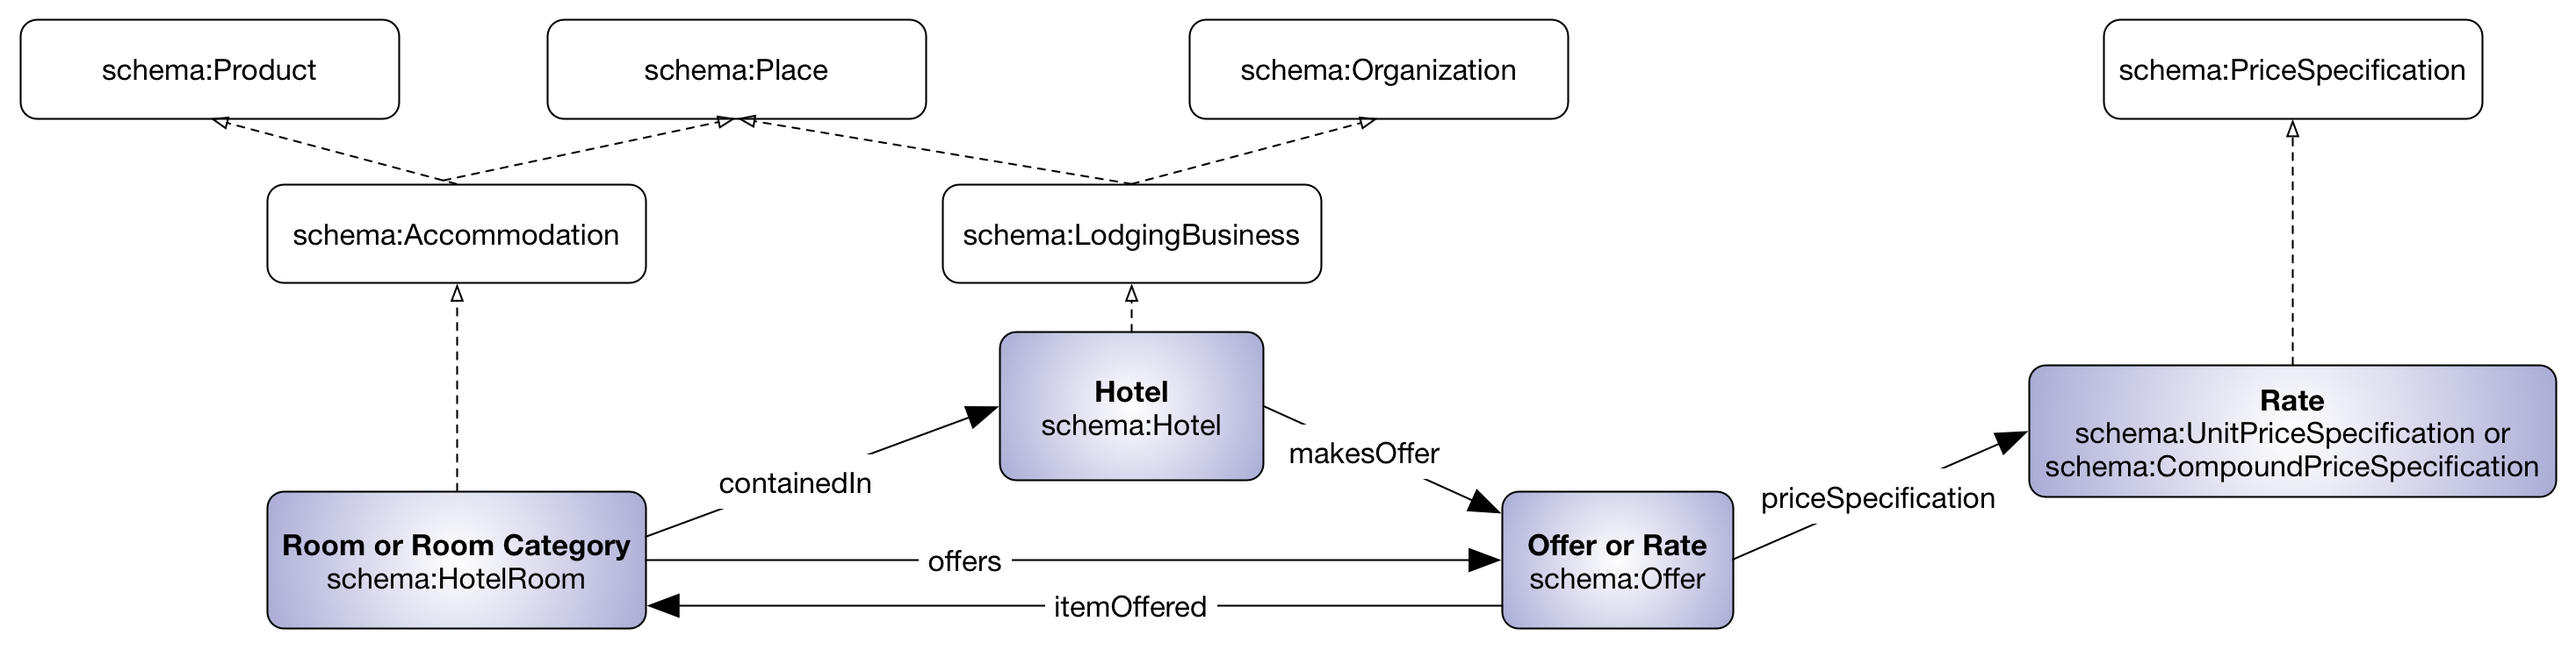
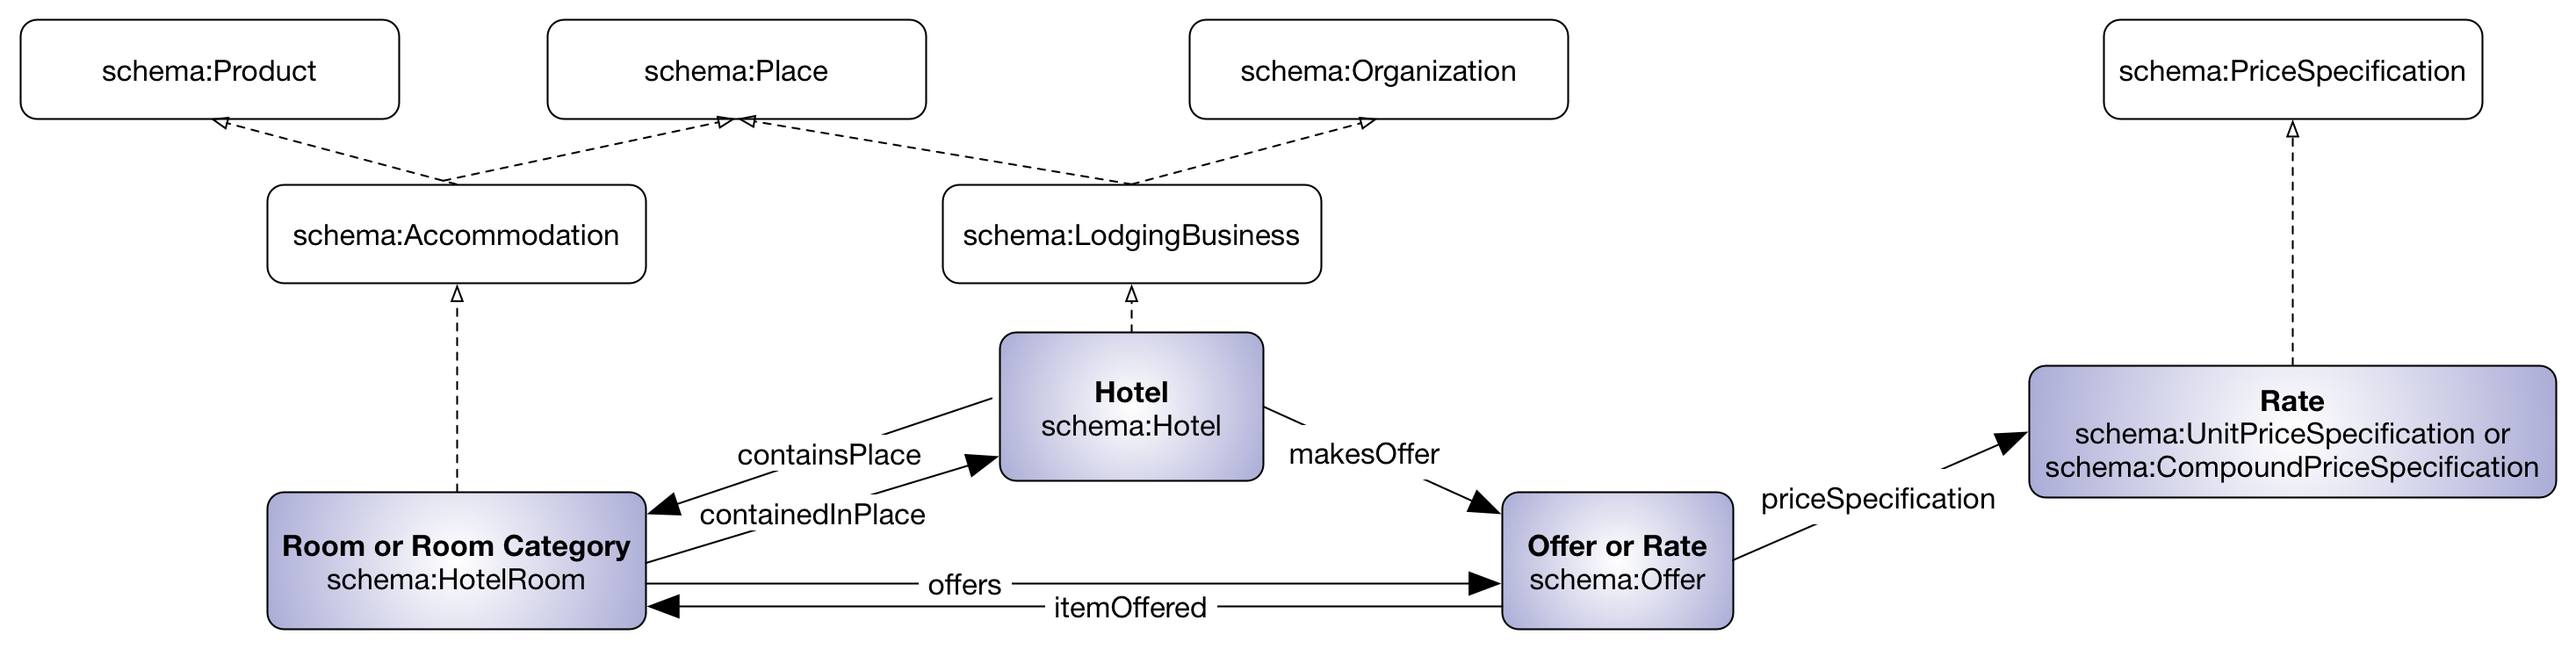
removed DistanceSpecification and properties; fixed indentation, reflected containedInPlace renaming and containsPlace inverse property, added Room class and moved roomNumber thereto

diff --git a/docs/hotels.html b/docs/hotels.html
@@ -105,7 +105,7 @@
 <p>The diagram shown below illustrates the basic pattern for describing hotel room offers and offers for other forms of accommodations.</p> 
 <p>All actual accommodations are subclasses of <a href="../Place">http://schema.org/Place</a> and of <a href="../Product">http://schema.org/Product</a> (which is just anything that can be included in an offer). All types of lodging businesses are subclasses of <a href="../Place">http://schema.org/Place</a> and of <a href="../LocalBusiness">http://schema.org/LocalBusiness</a>.</p>
 
-<p>The relationship between an accommodation and the local business it belongs to is represented via the <a href="../containedInPlace">containedInPlace</a> property. The relationship between the offer and the room included in the offer can be represented via either the <a href="../offers">offers</a> property (from the room to the offer) or via <a href="../itemOffered">itemsOffered</a> (from the offer to the room).</p>
+<p>The relationship between an accommodation and the local business it belongs to is represented via the <a href="../containedInPlace">containedInPlace</a> (from hotel room to hotel) or <a href="../containsPlace">containsPlace</a> (from hotel to hotel room) properties. The relationship between the offer and the room included in the offer can be represented via either the <a href="../offers">offers</a> property (from the room to the offer) or via <a href="../itemOffered">itemsOffered</a> (from the offer to the room).</p>
 <p>The relationship between the lodging business and its offers for rooms is represented via the <a href="../makesOffer">makesOffer</a> property (from the hotel to the offer) or via the <a href="../offeredBy">offeredBy</a> property (from the offer to the hotel).</p>
 <p>When the offer includes more than just the bare room (e.g. meals) or multiple nights we use the <a href="../includesObject">includesObject</a> property and one or more <a href="../TypeAndQuantityNode">TypeAndQuantityNode</a> nodes.
 
@@ -131,9 +131,12 @@
 <ul>
     <li><a href="../Apartment">Apartment</a></li>
     <li><a href="../CampingPitch">CampingPitch</a></li>
-    <li><a href="../HotelRoom">HotelRoom</a></li>
+    <li><a href="../Room">Room</a></li>
+        <ul>
+			<li><a href="../HotelRoom">HotelRoom</a></li>
+    		<li><a href="../MeetingRoom">MeetingRoom</a></li>
+		</ul>
     <li><a href="../House">House</a></li>
-    <li><a href="../MeetingRoom">MeetingRoom</a></li>
     <li><a href="../Suite">Suite</a></li>
 </ul>
 
